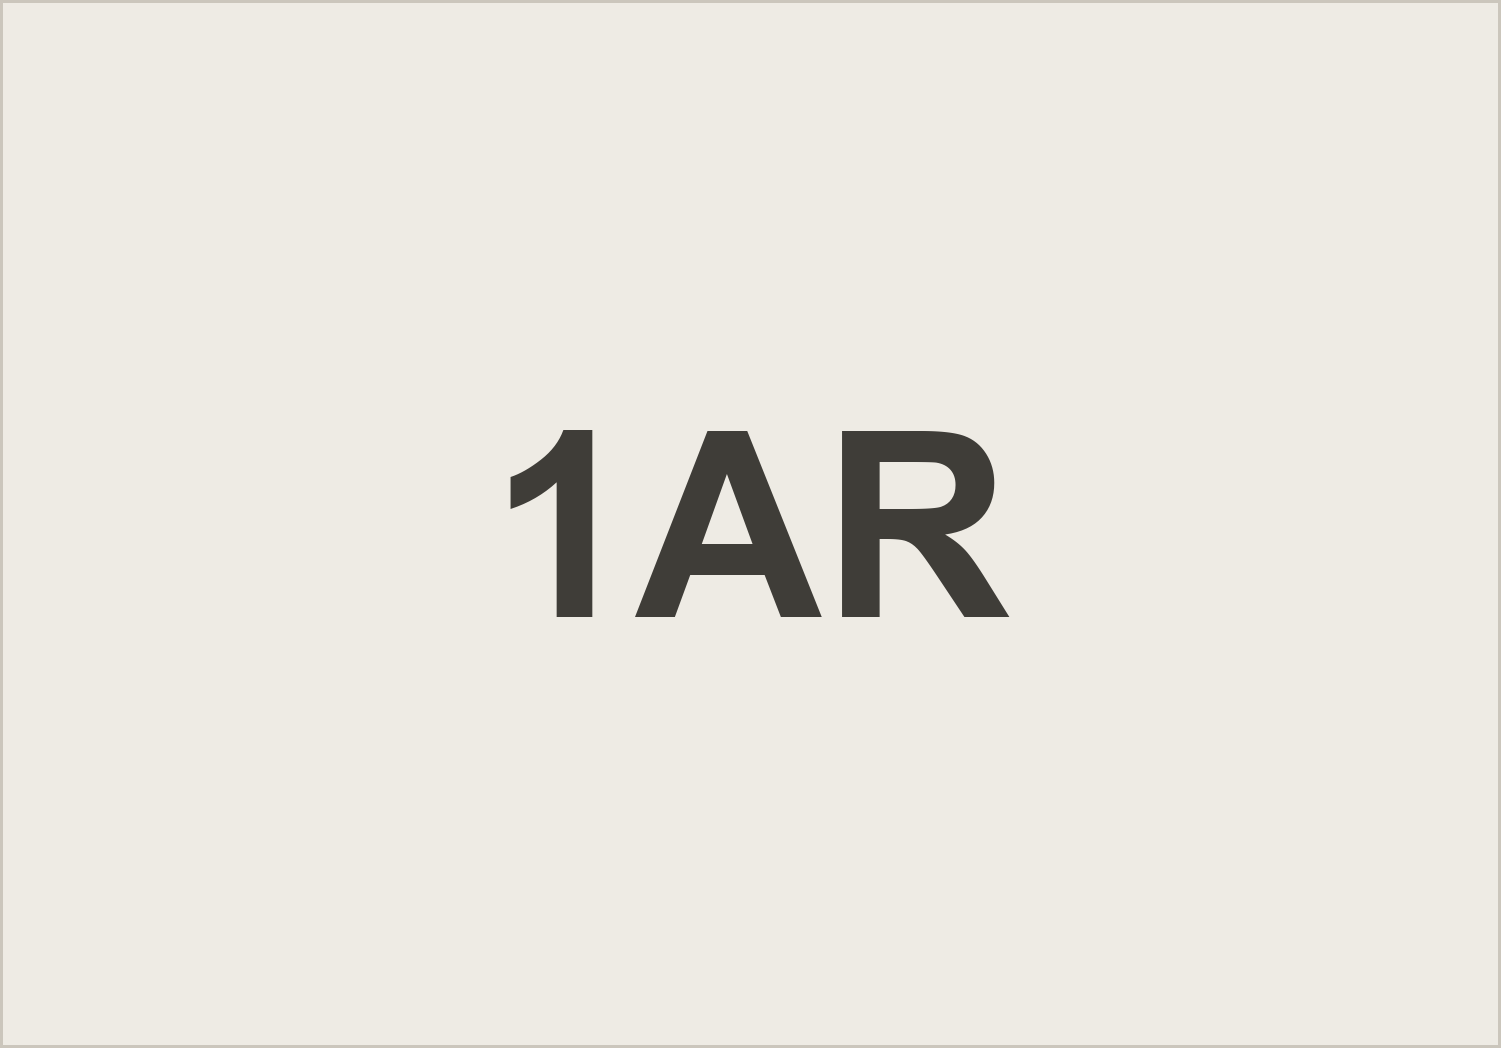
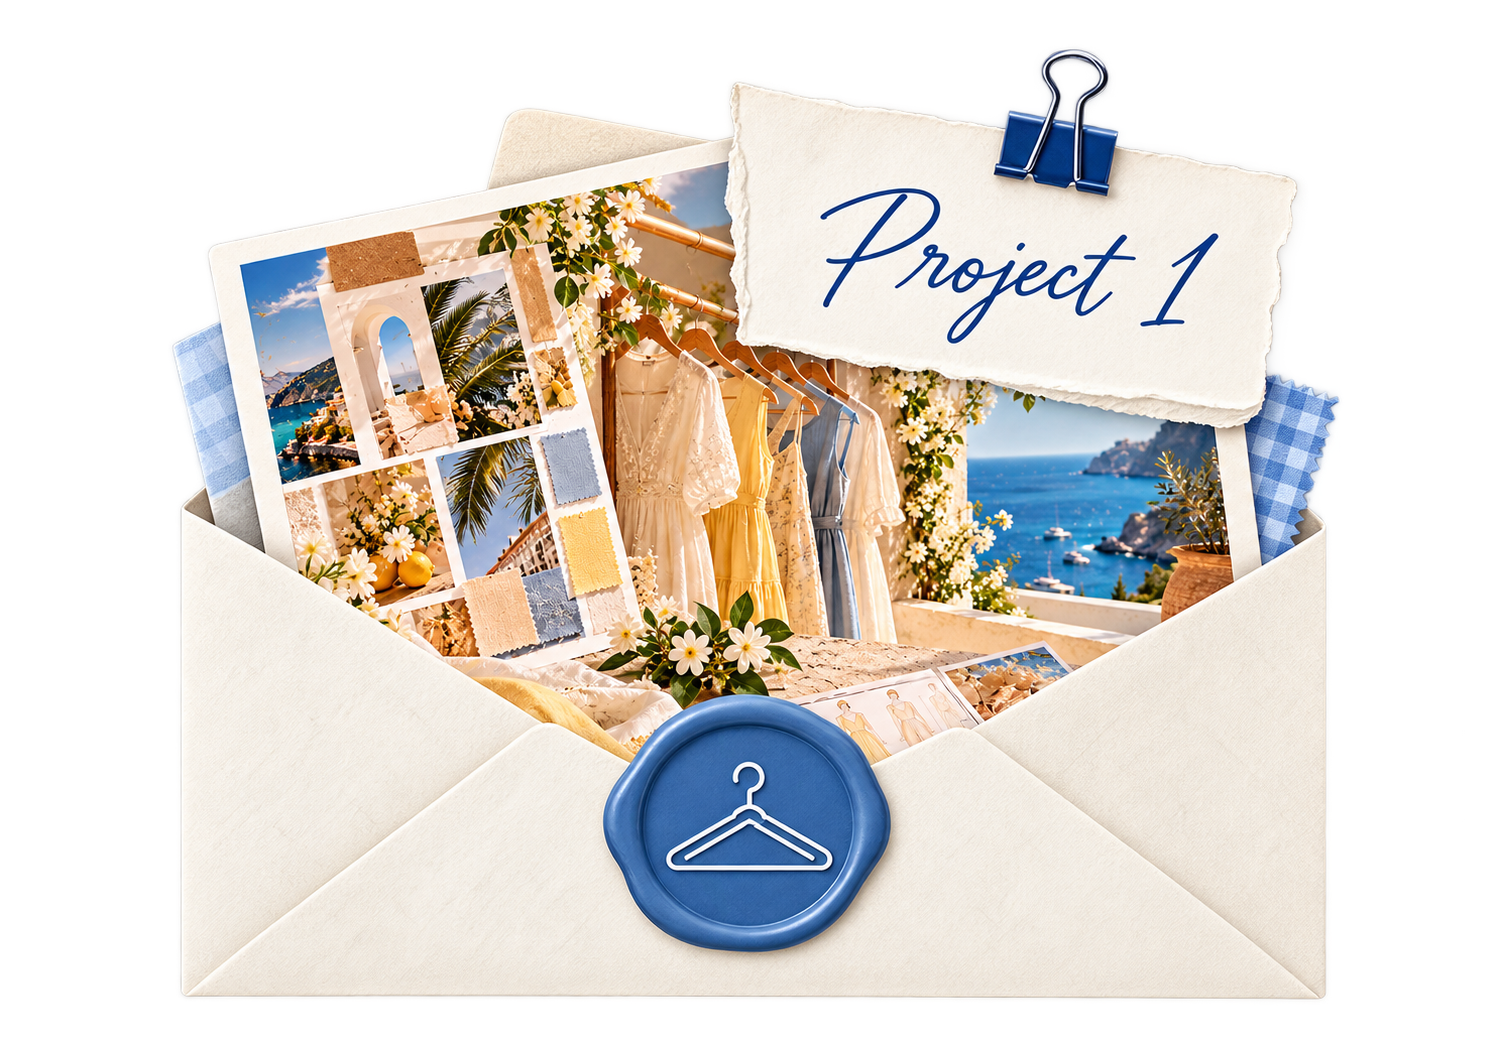
Tighten Project 2 layout and swap in real Project 1 card

diff --git a/src/index.css b/src/index.css
@@ -4104,7 +4104,7 @@ img.skills-panel-title {
 }
 .px2b__bottom {
   display: grid;
-  grid-template-columns: 1.5fr 1fr 0.6fr;
+  grid-template-columns: 1.75fr 1fr 0.55fr;
   gap: 40px;
   align-items: start;
   margin-top: 56px;
@@ -4121,18 +4121,21 @@ img.skills-panel-title {
 .px2b__truth-row {
   display: flex;
   align-items: center;
+  justify-content: space-between;
+  width: 100%;
   gap: 14px;
 }
 .px2b__truth-item {
   display: flex;
+  flex: 1;
   flex-direction: column;
   align-items: center;
   gap: 10px;
   text-align: center;
 }
 .px2b__truth-circle {
-  width: 96px;
-  height: 96px;
+  width: clamp(96px, 8vw, 118px);
+  height: clamp(96px, 8vw, 118px);
   border-radius: 50%;
   overflow: hidden;
 }
@@ -4142,7 +4145,7 @@ img.skills-panel-title {
   letter-spacing: 0.14em;
   text-transform: uppercase;
   color: #393832;
-  max-width: 100px;
+  max-width: 120px;
 }
 .px2b__truth-arrow {
   font-size: 20px;
@@ -4231,12 +4234,22 @@ img.skills-panel-title {
   display: grid;
   grid-template-columns: 35% 30% 35%;
   gap: 2.5%;
-  align-items: start;
+  align-items: stretch;
+}
+.px2d__whys,
+.px2d__ideas {
+  display: flex;
+  flex-direction: column;
+  min-height: 0;
 }
 .px2d__whys-list {
   margin: 0;
   padding: 0;
   list-style: none;
+  flex: 1;
+  display: grid;
+  grid-template-rows: repeat(5, minmax(0, 1fr));
+  gap: 8px;
 }
 .px2d__why {
   position: relative;
@@ -4351,33 +4364,20 @@ img.skills-panel-title {
 .px2d__hl--sage {
   background: linear-gradient(transparent 55%, #d8e0cb 55%);
 }
-.px2d__arrows {
-  position: absolute;
-  right: -30px;
-  top: 20%;
-  display: flex;
-  flex-direction: column;
-  gap: 34px;
-}
-.px2d__arrow {
-  width: 60px;
-  height: 24px;
-  fill: none;
-  stroke: #6a685d;
-  stroke-width: 1.3;
-}
 .px2d__ideas-list {
   margin: 0;
   padding: 0;
   list-style: none;
-  display: flex;
-  flex-direction: column;
+  flex: 1;
+  display: grid;
+  grid-template-rows: repeat(5, minmax(0, 1fr));
   gap: 8px;
 }
 .px2d__idea {
   display: flex;
   align-items: center;
   gap: 12px;
+  height: 100%;
   background: #f0ede5;
   padding: 8px;
 }
@@ -4420,8 +4420,10 @@ img.skills-panel-title {
     grid-template-columns: 1fr;
     gap: 46px;
   }
-  .px2d__arrows {
-    display: none;
+  .px2d__whys-list,
+  .px2d__ideas-list {
+    flex: 0 0 auto;
+    grid-template-rows: none;
   }
 }
 

diff --git a/src/components/marketing/SameSimplicityNewPossibilities.tsx b/src/components/marketing/SameSimplicityNewPossibilities.tsx
@@ -95,14 +95,6 @@ export function SameSimplicityNewPossibilities() {
                 comfort and global functionality?
               </p>
             </div>
-            <div className="px2d__arrows" aria-hidden="true">
-              {[0, 1, 2, 3, 4].map((i) => (
-                <svg key={i} viewBox="0 0 60 24" className="px2d__arrow">
-                  <path d="M2 20 Q 26 2 50 14" />
-                  <path d="M44 9 L51 14 L43 16" />
-                </svg>
-              ))}
-            </div>
           </div>
         </div>
 
